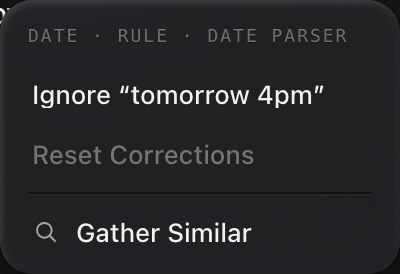
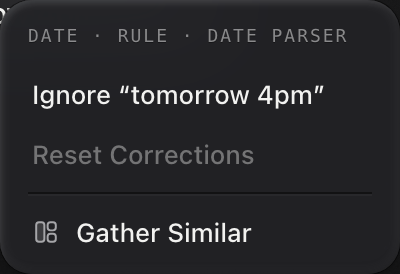
fix(menu): use the gathering glyph for Gather Similar

diff --git a/apps/docs/src/pages/components/Menu.tsx b/apps/docs/src/pages/components/Menu.tsx
@@ -1,7 +1,7 @@
 import * as React from 'react';
 import { useDialKit } from 'dialkit';
 import { Button, ContextMenu, Cue, IconButton, Menu, MenuItem, MenuCheckboxItem, MenuSeparator, ToastProvider, useToast } from '@unlocalhosted/metalui';
-import { DuplicateIcon, MoreIcon, PinIcon, SearchIcon, ShareIcon, TrashIcon } from '@unlocalhosted/metalui/icons';
+import { DuplicateIcon, MoreIcon, PinIcon, LayoutIcon, ShareIcon, TrashIcon } from '@unlocalhosted/metalui/icons';
 import reactSource from '../../../../../packages/metalui/src/components/menu/menu.tsx?raw';
 import cssSource from '../../../../../packages/metalui/src/components/theme.css?raw';
 import agentGuide from '../../../../../packages/metalui/src/components/menu/menu.agent.md?raw';
@@ -26,7 +26,7 @@ function Corrections() {
         <MenuItem onSelect={() => correct('date')}>Ignore “tomorrow 4pm”</MenuItem>
         <MenuItem onSelect={() => setOff([])} disabled={off.length === 0}>Reset Corrections</MenuItem>
         <MenuSeparator />
-        <MenuItem icon={<SearchIcon size={14} />} onSelect={() => {}}>Gather Similar</MenuItem>
+        <MenuItem icon={<LayoutIcon size={14} />} onSelect={() => {}}>Gather Similar</MenuItem>
       </>}>
         {on('date') ? <Cue kind="date" resolved="TUE 30 SEP · 16:00">tomorrow 4pm</Cue> : <span>tomorrow 4pm</span>}
       </ContextMenu>

diff --git a/swift/Sources/MetalUI/Components/MetalMenu.swift b/swift/Sources/MetalUI/Components/MetalMenu.swift
@@ -214,7 +214,7 @@ extension View {
     ///     cue.metalMenu(isPresented: $correcting, at: clickPoint, heading: "NOTE · TASK BY RECOGNIZER 0.82", items: [
     ///         MetalMenuItem("Not a Task") { correct(.task(false)) },
     ///         .separator,
-    ///         MetalMenuItem("Gather Similar", icon: .search) { gather() },
+    ///         MetalMenuItem("Gather Similar", icon: .layout) { gather() },
     ///     ])
     public func metalMenu(isPresented: Binding<Bool>, at point: CGPoint? = nil, heading: String? = nil, items: [MetalMenuItem]) -> some View {
         modifier(MetalMenuPresenter(isPresented: isPresented, point: point, heading: heading, items: items))

diff --git a/e2e/menu.spec.ts b/e2e/menu.spec.ts
@@ -10,6 +10,7 @@ for (const colorway of COLORWAYS) {
     await line.locator('.mu-cue[data-kind="date"]').click({ button: 'right' });
     const menu = page.getByRole('menu');
     await expect(menu).toContainText('Date · rule · date parser');
+    await expect(menu.getByRole('menuitem', { name: 'Gather Similar' }).locator('svg.mu-ic-layout')).toHaveCount(1);
     await expect(menu.getByRole('menuitem', { name: 'Reset Corrections' })).toHaveAttribute('aria-disabled', 'true');
     await menu.evaluate((el) => Promise.all(el.getAnimations().map((a) => a.finished)));
     await menu.screenshot({ path: capture(`menu-correction-${colorway}`) });

diff --git a/packages/metalui/public/AI.md b/packages/metalui/public/AI.md
@@ -2284,7 +2284,7 @@ A frosted plate of rows. React: `Menu`, `ContextMenu`, `MenuItem`, `MenuSeparato
   <MenuItem onSelect={() => correct({ task: false })}>Not a Task</MenuItem>
   <MenuItem onSelect={resetCorrections}>Reset Corrections</MenuItem>
   <MenuSeparator />
-  <MenuItem onSelect={gatherSimilar} icon={<SearchIcon size={14} />}>Gather Similar</MenuItem>
+  <MenuItem onSelect={gatherSimilar} icon={<LayoutIcon size={14} />}>Gather Similar</MenuItem>
 </>}>
   <span>{cue}</span>
 </ContextMenu>

diff --git a/packages/metalui/public/r/menu.md b/packages/metalui/public/r/menu.md
@@ -39,7 +39,7 @@ A frosted plate of rows. React: `Menu`, `ContextMenu`, `MenuItem`, `MenuSeparato
   <MenuItem onSelect={() => correct({ task: false })}>Not a Task</MenuItem>
   <MenuItem onSelect={resetCorrections}>Reset Corrections</MenuItem>
   <MenuSeparator />
-  <MenuItem onSelect={gatherSimilar} icon={<SearchIcon size={14} />}>Gather Similar</MenuItem>
+  <MenuItem onSelect={gatherSimilar} icon={<LayoutIcon size={14} />}>Gather Similar</MenuItem>
 </>}>
   <span>{cue}</span>
 </ContextMenu>

diff --git a/packages/metalui/src/components/menu/menu.agent.md b/packages/metalui/src/components/menu/menu.agent.md
@@ -39,7 +39,7 @@ A frosted plate of rows. React: `Menu`, `ContextMenu`, `MenuItem`, `MenuSeparato
   <MenuItem onSelect={() => correct({ task: false })}>Not a Task</MenuItem>
   <MenuItem onSelect={resetCorrections}>Reset Corrections</MenuItem>
   <MenuSeparator />
-  <MenuItem onSelect={gatherSimilar} icon={<SearchIcon size={14} />}>Gather Similar</MenuItem>
+  <MenuItem onSelect={gatherSimilar} icon={<LayoutIcon size={14} />}>Gather Similar</MenuItem>
 </>}>
   <span>{cue}</span>
 </ContextMenu>
